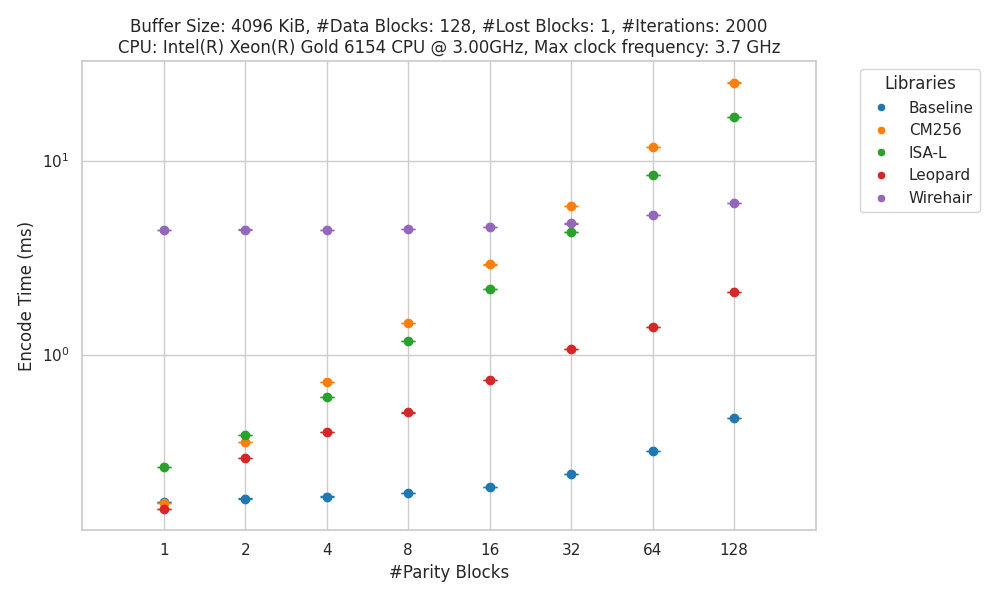
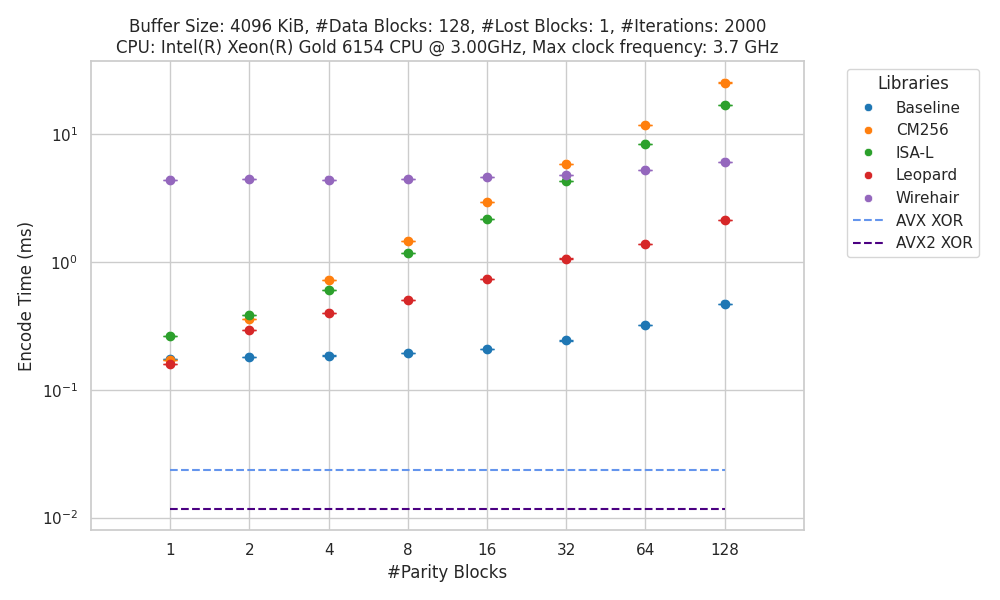
Finished plotting of theoretical min/maxs

diff --git a/scripts/plot_benchmark_results.py b/scripts/plot_benchmark_results.py
@@ -1,4 +1,5 @@
 import os
+from webbrowser import get
 import cpuinfo
 import platform
 import psutil
@@ -20,6 +21,11 @@ LOG_OUTPUT_DIR = os.path.join(SCRIPT_DIR, "../results/processed/log/")
 # AVX XOR / AVX2 XOR max throughput
 AVX_XOR_CPI_XEON = 0.33
 AVX2_XOR_CPI_XEON = 0.33
+AVX_BITS = 128
+AVX2_BITS = 256
+AVX_COLOR = "cornflowerblue"
+AVX2_COLOR = "indigo"
+
 CPUInfo = namedtuple("CPUInfo", ["model_name", "clock_speed_GHz", "l1_cache_size_KiB", "l2_cache_size_KiB", "l3_cache_size_KiB"])
 
 class AxType(Enum):
@@ -114,7 +120,7 @@ def get_ax_label(ax: AxType) -> str:
   }
   return ax_map[ax]
 
-def get_min_encode_time(xor_cpi: float, avx_bits: int, cpu_frequency_GHz: float, data_size_B: int, num_data_blocks: int) -> float:
+def get_min_encode_time(xor_cpi: float, avx_bits: int, cpu_frequency_GHz: float, data_size_B: int, num_data_blocks: int, num_parity_blocks: int, num_lost_data_blocks: int) -> float:
   """Compute the theoretical minimum encoding time (single threaded)."""
   block_size_bits = (data_size_B // num_data_blocks) * 8
 
@@ -124,8 +130,9 @@ def get_min_encode_time(xor_cpi: float, avx_bits: int, cpu_frequency_GHz: float,
   return encode_time_ms
 
 
-def get_encode_throughput(encode_time_ms, data_size_B: int) -> float:
+def get_max_encode_throughput(xor_cpi: float, avx_bits: int, cpu_frequency_GHz: float, data_size_B: int, num_data_blocks: int, num_parity_blocks: int, num_lost_data_blocks: int) -> float:
   """Compute the theoretical maximum encoding throughput (single threaded)."""
+  encode_time_ms = get_min_encode_time(xor_cpi, avx_bits, cpu_frequency_GHz, data_size_B, num_data_blocks, num_parity_blocks, num_lost_data_blocks)
   data_size_bits = data_size_B * 8
   encode_throughput_Gbps = (data_size_bits / 1e6) / encode_time_ms # equal to (#bits/1e9)/(#ms/1e3) = #Gbps
   return encode_throughput_Gbps
@@ -135,18 +142,26 @@ def get_min_decode_time(xor_cpi: float, avx_bits: int, cpu_frequency_GHz: float,
   """Compute the theoretical minimum decoding time (single threaded)."""
   block_size_bits = (data_size_B // num_data_blocks) * 8
   blocks_per_parity_block = num_data_blocks // num_parity_blocks
-  num_xors_per_lost_data_block = ((blocks_per_parity_block - 1) * block_size_bits)
+  num_xors_per_lost_data_block = ((blocks_per_parity_block) * block_size_bits) / avx_bits
   tot_num_xors = num_xors_per_lost_data_block * num_lost_data_blocks
   num_cycles = tot_num_xors * xor_cpi
   decode_time_ms = (num_cycles / cpu_frequency_GHz) / 1e6 # equal to (#cycles / (#GHz * 1e9)) * 1e3  = (#cycles / #Hz) * 1e3
   return decode_time_ms
 
 
-def get_decode_throughput(decode_time_ms, data_size_B: int) -> float:
+def get_max_decode_throughput(xor_cpi: float, avx_bits: int, cpu_frequency_GHz: float, data_size_B: int, num_data_blocks: int, num_parity_blocks: int, num_lost_data_blocks: int) -> float:
   """Compute the theoretical maximum decoding throughput (single threaded)."""
+  decode_time_ms = get_min_decode_time(xor_cpi, avx_bits, cpu_frequency_GHz, data_size_B, num_data_blocks, num_parity_blocks, num_lost_data_blocks)
   data_size_bits = data_size_B * 8
   decode_throughput_Gbps = (data_size_bits / 1e6) / decode_time_ms # equal to (#bits/1e9)/(#ms/1e3) = #Gbps
   return decode_throughput_Gbps
+
+avx_avx2_func = {
+  AxType.ENCODE_T: get_min_encode_time,
+  AxType.DECODE_T: get_min_decode_time,
+  AxType.ENCODE_TP: get_max_encode_throughput,
+  AxType.DECODE_TP: get_max_decode_throughput
+}
 
 def plot_cache_sizes(cpu_info: CPUInfo) -> None:
   l2_cache_size = cpu_info.l2_cache_size_KiB
@@ -179,6 +194,38 @@ def plot_confidence_intervals(df: pd.DataFrame, x_ax: AxType, y_ax: AxType) -> N
                  fmt='o', color=ax.get_legend().legend_handles[df["name"].unique().tolist().index(name)].get_color(), capsize=5 
     )
 
+def plot_avx_avx2_xor(df: pd.DataFrame, x_ax: AxType, y_ax: AxType, cpu_frequency_GHz: float) -> None:
+  x_col = get_col_name(x_ax)
+  y_col = get_col_name(y_ax)
+  f = avx_avx2_func[y_ax]
+
+  params_df = df[[
+    "tot_data_size_KiB",
+    "num_data_blocks",
+    "num_parity_blocks",
+    "num_lost_blocks"
+  ]].drop_duplicates().sort_values(by=x_col, ascending=True)
+
+  x_values = params_df[x_col].unique()
+
+  y_values_AVX = params_df.apply(
+    lambda row: f(AVX_XOR_CPI_XEON, AVX_BITS, cpu_frequency_GHz, row["tot_data_size_KiB"]*1024,
+                  row["num_data_blocks"], row["num_parity_blocks"], row["num_lost_blocks"]
+                  ),
+    axis=1
+  ).tolist()
+
+  y_values_AVX2 = params_df.apply(
+    lambda row: f(AVX2_XOR_CPI_XEON, AVX2_BITS, cpu_frequency_GHz, row["tot_data_size_KiB"]*1024,
+                  row["num_data_blocks"], row["num_parity_blocks"], row["num_lost_blocks"]
+                  ),
+    axis=1
+  ).tolist()
+
+  assert(len(x_values) == len(y_values_AVX) == len(y_values_AVX2))
+  plt.plot(x_values, y_values_AVX, label="AVX XOR", color=AVX_COLOR, linestyle="--")
+  plt.plot(x_values, y_values_AVX2, label="AVX2 XOR", color=AVX2_COLOR, linestyle="--")
+
 
 def write_scatter_plot(dfs: Dict[int, pd.DataFrame], x_ax: AxType, y_ax: AxType, y_scale: str, plot_id: int) -> None:
   """Generate and save scatter plot."""
@@ -202,6 +249,7 @@ def write_scatter_plot(dfs: Dict[int, pd.DataFrame], x_ax: AxType, y_ax: AxType,
   plt.yscale(y_scale)
 
   if x_ax == AxType.BUF_SIZE: plot_cache_sizes(cpu_info)
+  plot_avx_avx2_xor(df, x_ax, y_ax, cpu_info.clock_speed_GHz)
 
   plt.legend(title="Libraries", bbox_to_anchor=(1.05, 1), loc="upper left")
   plt.title(get_plot_title(df, plot_id, cpu_info), fontsize=12)
@@ -288,4 +336,4 @@ if __name__ == "__main__":
 
   for params in plot_params:
     write_scatter_plot(dfs, *params)
-
+  
